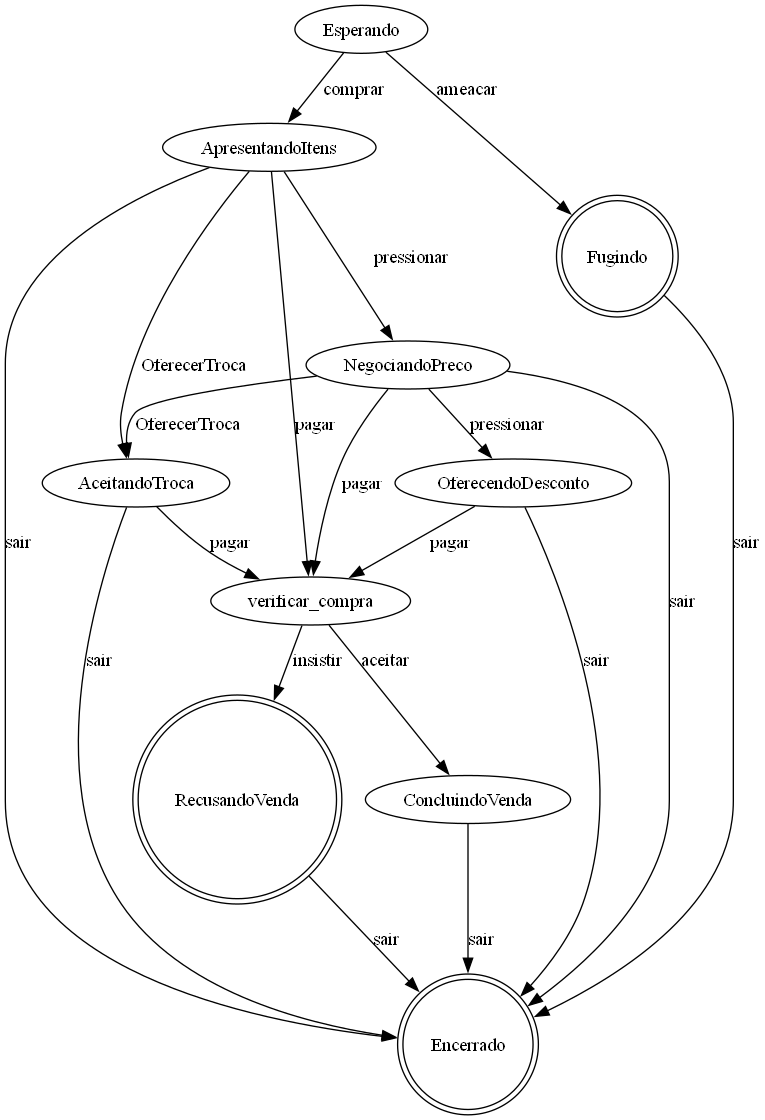
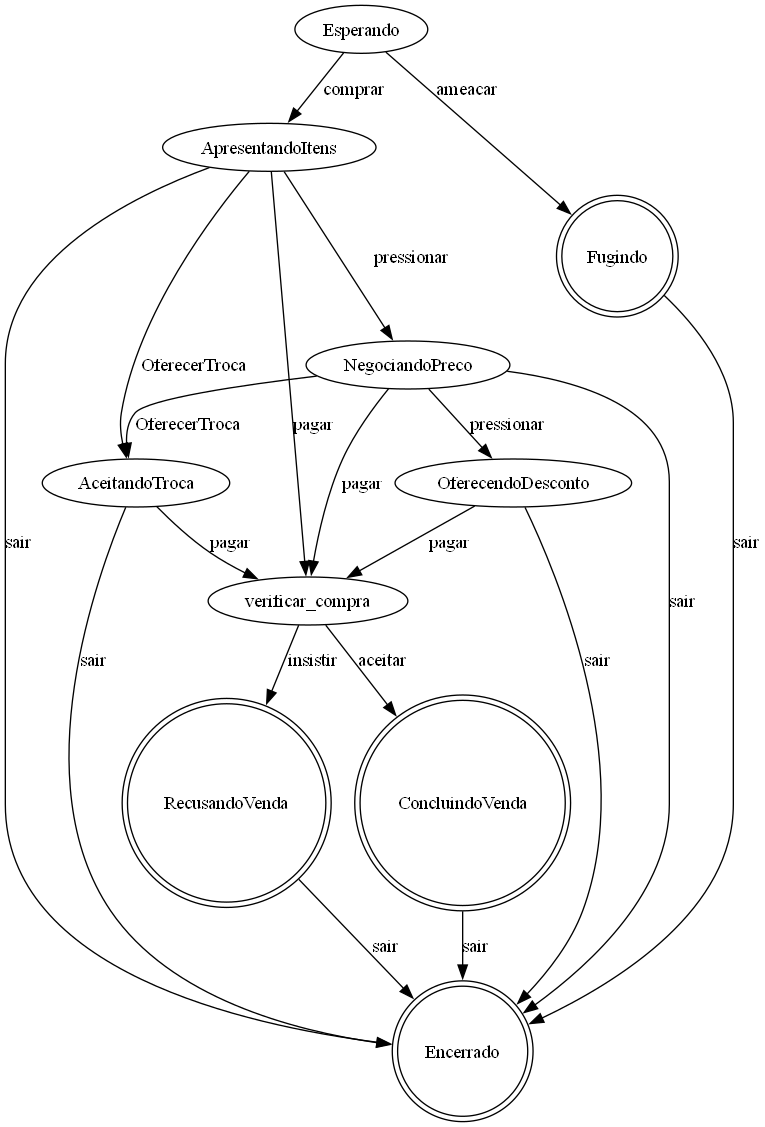
Add files via upload

diff --git a/NPC/Emanuel-NPC/NpcInformante.py b/NPC/Emanuel-NPC/NpcInformante.py
@@ -30,12 +30,12 @@ respostas_perguntas = {
     'cidades antigas': "As cidades antigas foram destruídas em uma grande guerra.",
     'guildas': "As guildas controlam o comercio e os contratos de mercenarios.",
     'reino perdido': "O Reino Perdido e uma lenda... ou talvez não.",
-    'animais magicos': "Dizem que animais magicos podem ser encontrados nas montanhas.",
+    'animais': "Dizem que animais magicos podem ser encontrados nas montanhas.",
     'lendas antigas': "As lendas antigas são passadas de geracão em geracão.",
     'rituais secretos': "Existem rituais que apenas os sabios conhecem.",
     'a origem da magia': "Ninguem sabe ao certo como a magia surgiu neste mundo.",
     'os guardioes do tempo': "Poucos ouviram falar dos Guardiões do Tempo, seres que vigiam as linhas temporais.",
-    'armas lendarias': "Armas lendarias são forjadas com materiais raros e encantamentos poderosos.",
+    'armas': "Armas lendarias são forjadas com materiais raros e encantamentos poderosos.",
     'portais misticos': "Os portais místicos conectam reinos distantes, mas são perigosos de usar."
 }
 
@@ -49,7 +49,7 @@ perguntas_possiveis = [
     #"lendas antigas", "rituais secretos", "a origem da magia", "os guardiões do tempo",
    # "armas lendarias", "portais místicos"
     "cidade", "castelo", "monstros", "historia", "lendas" #Versão Simplificada (não tinha tecla o suficiente pra ter todas acima)
-    , "animais magicos", "armas lendarias"
+    , "animais", "armas"
 
 ]
 

diff --git a/NPC/Emanuel-NPC/NpcFerreiro.py b/NPC/Emanuel-NPC/NpcFerreiro.py
@@ -32,10 +32,10 @@ mensagens_customizadas = {
     'ForjandoArma': "Forjando sua arma... isso pode demorar.",
     'MelhorandoArma': "Afiando e reforcando sua arma...",
     'FalhaForja': "A forja falhou! Desculpe.",
-    'SucessoForja': "Aqui esta! Uma arma poderosa forjada especialmente para você.",
+    'SucessoForja': "Aqui esta! Uma arma poderosa forjada especialmente para voce.",
     'NegociandoPreco': "Esse servico nao e barato... pague ou saia.",
     'AceitandoDesafio': "Desafio aceito! Prepare-se para lutar.",
-    'RecusandoServico': "Nao vou trabalhar para alguem como você!",
+    'RecusandoServico': "Nao vou trabalhar para alguem como voce!",
     'Encerrado': "Boa sorte em sua jornada, guerreiro!"
 }
 

diff --git a/NPC/Emanuel-NPC/VisualizadorGeral.py b/NPC/Emanuel-NPC/VisualizadorGeral.py
@@ -16,7 +16,7 @@ for npc_nome in npcs:
         dot = Digraph(comment=f'AFD/AFN/AP {nome_npc}')
         for estado in estados:
             shape = 'ellipse'
-            if estado.lower() in ['concluindo', 'encerrado', 'fugindo', 'recusandovenda', 'sucessoforja', 'falhaforja','sair']:
+            if estado.lower() in ['concluindo', 'encerrado', 'fugindo', 'recusandovenda', 'sucessoforja', 'falhaforja','sair','concluindovenda']:
                 shape = 'doublecircle'
             dot.node(estado, shape=shape)
 

diff --git a/NPC/Emanuel-NPC/game.py b/NPC/Emanuel-NPC/game.py
@@ -261,7 +261,7 @@ class NPC:
                 if perguntas:
                     self.dialogue_message = "Voce perguntou sobre: " + ", ".join(perguntas)
                 else:
-                    self.dialogue_message = "voce não perguntou nada."
+                    self.dialogue_message = "voce nao perguntou nada."
 
         else:
             # Caso padrão (Mercador ou Ferreiro)
